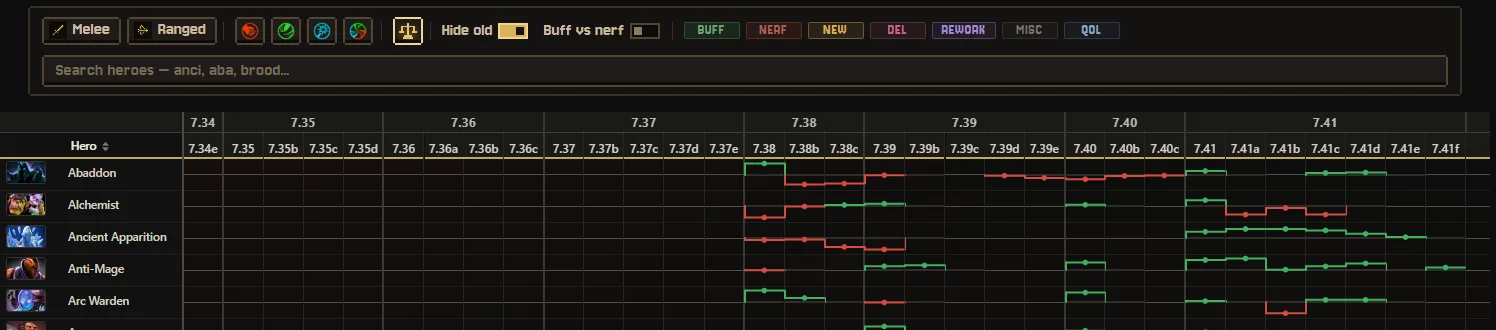
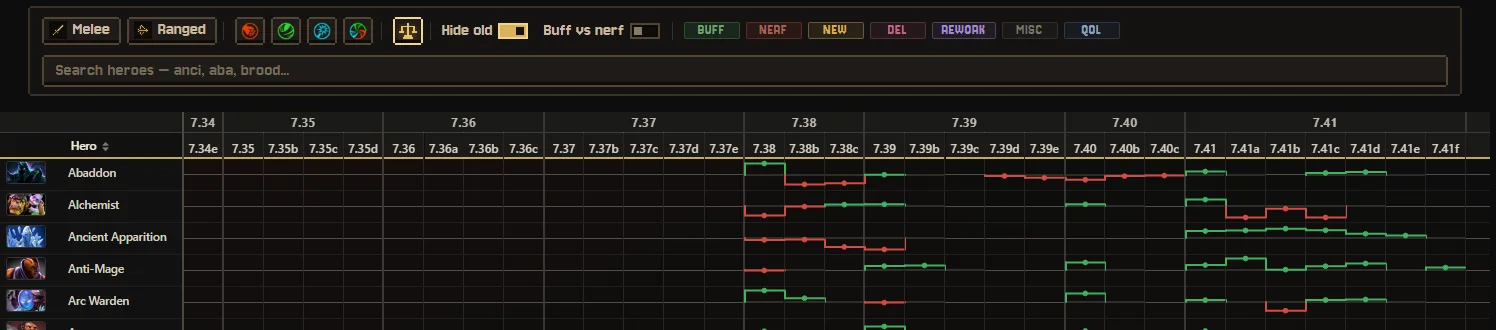
fix: charge gain/restore time is lower-is-buff (7.41b Consecrated Wraps NERF); changelog for the weights audit

diff --git a/content/p741b.py b/content/p741b.py
@@ -36,7 +36,7 @@ def build():
     W(li("All Attributes bonus decreased from +6 to +5", b(6, 5)))
     W(li("Hallowed stacks are now item charges instead of a stack counter on the buff", t("REWORK"), extra=inline_note("All charges are consumed when the barrier is created<br>Charge Restore Time of Hallowed is not affected by effects that reduce or modify cooldowns")))
     W(li("Hallowed now starts with all 3 charges when Consecrated Wraps is purchased or built", t("BUFF"), extra=inline_note("Gaining max stacks requirement for the speedup buff is removed<br>Initial 3 charges don't provide the movement speed buff")))
-    W(li("Hallowed charge gain time increased from 3s to 4s", b(3, 4)))
+    W(li("Hallowed charge gain time increased from 3s to 4s", b(3, 4, l=True)))
     W(ul_close())
     W(item_header("Gleipnir"))
     W(ul_open())

diff --git a/generate_patch_code_v2.py b/generate_patch_code_v2.py
@@ -366,6 +366,8 @@ LOWER_IS_BUFF = re.compile(
     r'|(?:damage|hit)\s+threshold'
     # 2026-09-22: owner-side timers and trigger requirements
     r'|restock\s+time'
+    # 2026-09-25: time to gain / restore a charge (Consecrated Wraps "Hallowed charge gain time 3s -> 4s" = NERF)
+    r'|charge\s+(?:gain|restore|replenish|regen(?:eration)?)\s+time'
     r'|base\s+attack\s+rate'                     # seconds per attack (Kez Sai/Katana) — like BAT
     r'|required\s+to\s+(?:trigger|cast|activate|proc)'
     r'|(?:familiar|summon(?:ed)?|illusion|ward|spirit)s?\s+(?:gold\s+)?bounty'   # own summon's bounty

diff --git a/tests/test_generator.py b/tests/test_generator.py
@@ -564,3 +564,10 @@ def test_active_prefixed_change_row_loses_the_prefix():
 def test_dispel_direction():
     assert g._guess_tag("Disarm can now be dispelled") == "NERF"
     assert g._guess_tag("Can no longer be dispelled") == "BUFF"
+
+
+def test_charge_gain_time_is_lower_is_buff():
+    """7.41b Consecrated Wraps: "Hallowed charge gain time increased from 3s to 4s" is a NERF —
+    a longer time to gain a charge (found by the weights audit, 2026-09-25)."""
+    import generate_patch_code_v2 as g
+    assert g.LOWER_IS_BUFF.search("Hallowed charge gain time increased from 3s to 4s")
